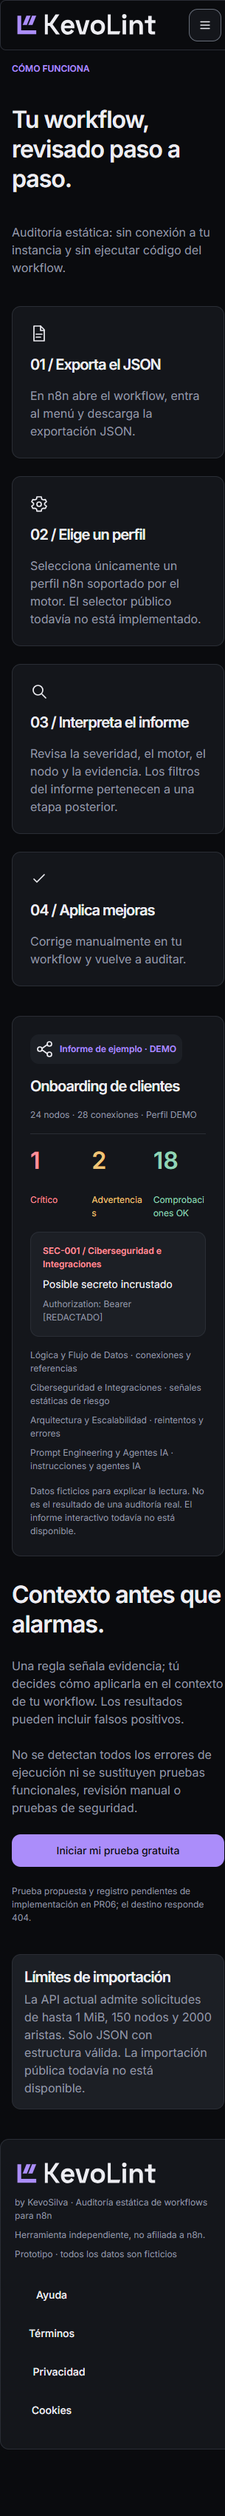
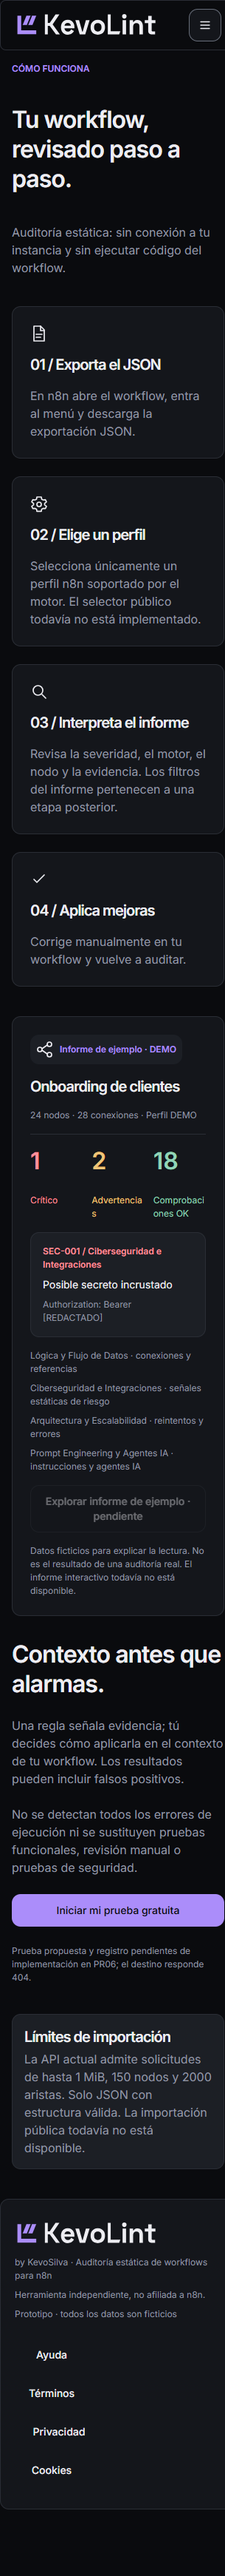
fix(web): preserve pending CTAs and synchronize PR04 browser hover checks

Changed region(s): [[0.0295, 0.0, 1.0, 0.9656], [0.8852, 0.0, 0.9443, 0.0311], [0.8262, 0.0934, 0.8852, 0.1246]]

diff --git a/apps/web/src/app/(public)/ayuda/page.tsx b/apps/web/src/app/(public)/ayuda/page.tsx
@@ -1,4 +1,5 @@
 import type { Metadata } from "next";
+import { Button } from "@/components/ui/Button";
 import { PublicPage, PublicPageIntro } from "@/components/public/content/PublicPage";
 import { HelpSearch } from "@/components/public/content/HelpSearch";
 import { helpEntries, readHelpQuery } from "@/lib/content/public/content";
@@ -8,6 +9,6 @@ export default async function HelpPage({ searchParams }: { searchParams: Promise
  const query = readHelpQuery((await searchParams).q);
  return <PublicPage><PublicPageIntro eyebrow="CENTRO DE AYUDA" title="Resuelve tu siguiente paso." description="Guías breves para entender la importación, el análisis y sus límites."/>
    <HelpSearch key={query} entries={helpEntries} initialQuery={query}/>
-   <section className={styles.card}><h2 className={styles.cardTitle}>¿Necesitas una revisión adicional?</h2><p className={styles.muted}>Correo de soporte pendiente de definir antes de la beta. La recuperación de cuenta todavía no está disponible; se implementará con la autenticación de PR06.</p></section>
+   <section className={styles.card}><h2 className={styles.cardTitle}>¿Necesitas una revisión adicional?</h2><p id="help-account-pending" className={styles.muted}>Correo de soporte pendiente de definir antes de la beta. La recuperación de cuenta todavía no está disponible; se implementará con la autenticación de PR06.</p><Button disabled variant="secondary" aria-describedby="help-account-pending">Recuperar acceso · pendiente</Button></section>
  </PublicPage>;
 }

diff --git a/apps/web/src/components/public/content/DemoReportPreview.tsx b/apps/web/src/components/public/content/DemoReportPreview.tsx
@@ -1,4 +1,5 @@
 import { PublicIcon } from "./PublicIcon";
+import { Button } from "@/components/ui/Button";
 import styles from "./public-content.module.css";
 export function DemoReportPreview() {
   return <section className={[styles.card, styles.report].join(" ")} aria-label="Informe de ejemplo DEMO">
@@ -12,6 +13,7 @@ export function DemoReportPreview() {
     </dl>
     <div className={styles.finding}><p className={styles.critical}>SEC-001 / Ciberseguridad e Integraciones</p><p>Posible secreto incrustado</p><p className={styles.small}>Authorization: Bearer [REDACTADO]</p></div>
     <ul className={styles.reportEngines}><li>Lógica y Flujo de Datos · conexiones y referencias</li><li>Ciberseguridad e Integraciones · señales estáticas de riesgo</li><li>Arquitectura y Escalabilidad · reintentos y errores</li><li>Prompt Engineering y Agentes IA · instrucciones y agentes IA</li></ul>
+    <Button disabled variant="secondary" className={styles.reportAction}>Explorar informe de ejemplo · pendiente</Button>
     <p className={styles.small}>Datos ficticios para explicar la lectura. No es el resultado de una auditoría real. El informe interactivo todavía no está disponible.</p>
   </section>;
 }

diff --git a/apps/web/src/components/public/content/public-content.module.css b/apps/web/src/components/public/content/public-content.module.css
@@ -31,6 +31,7 @@
 .planAction > button { width: 100%; }
 .proposal { padding: var(--kl-spacing-16); border: 1px solid var(--kl-color-border); border-radius: var(--kl-radius-12); background: var(--kl-color-raised); color: var(--kl-color-warning); font-size: 14px; line-height: 20px; }
 .report { gap: var(--kl-spacing-16); }
+.reportAction { width: 100%; }
 .trial { background: var(--kl-color-raised); }
 .trial h2 { font-size: 24px; line-height: 32px; letter-spacing: 0; }
 .trial .actions { width: 100%; }

diff --git a/apps/web/tests/public-content.test.ts b/apps/web/tests/public-content.test.ts
@@ -43,6 +43,8 @@ describe("PR04 truthful public content", () => {
     expect(result).toContain("[REDACTADO]");
     expect(result).not.toContain("href=");
     expect(result).not.toContain("/app/");
+    expect(result).toContain('disabled=""');
+    expect(result).toContain("Explorar informe de ejemplo · pendiente");
   });
   it("renders a usable native FAQ in SSR with no JavaScript dependency", () => {
     const result = html(createElement(PublicFaq,{entries:landingFaq}));

diff --git a/apps/web/docs/verification-pr04.md b/apps/web/docs/verification-pr04.md
@@ -33,14 +33,14 @@ No se alteran los 61 tokens originales, su generador, los 24 SVG de marca, Inter
 
 ## Comparación visual y adaptaciones autorizadas
 
-Se mantiene la composición por frame: hero 552/600 con gap48 en el contenedor desktop de 1200; pasos en tres/cuatro columnas desktop y apilados compactos; motores en cuatro/dos/una columnas; planes en tres/dos/una; lectura legal con máximo900. Se conservan los gutters PR02/PR03 y los límites767/768 y1023/1024. El hero usa48/56 desktop y36/44 compacto; títulos interiores40/48 y32/40. El salto explícito del título de precios se conserva. Las dimensiones que no son tokens originales son valores trazados a esos frames.
+Se mantiene la composición por frame: hero 552/600 con gap48 en el contenedor desktop de 1200; pasos en tres/cuatro columnas desktop y apilados compactos; motores en cuatro/dos/una columnas; planes en tres/dos/una; lectura legal con máximo 900. Se conservan los gutters PR02/PR03 y los límites767/768 y1023/1024. El hero usa48/56 desktop y36/44 compacto; títulos interiores40/48 y 32/40. El salto explícito del título de precios se conserva. Las dimensiones que no son tokens originales son valores trazados a esos frames.
 
 Las capturas mantienen barras de desplazamiento nativas. Los informes distinguen ancho emulado y ancho de layout disponible; no se ocultan barras para forzar coincidencia con el lienzo.
 
 Adaptaciones aprobadas y visibles:
 - Todos los importes siguen como “Precio por definir”. Cuotas10/100/500, historial7/90/180 y concurrencia se identifican como propuestas no aprobadas ni operativas. No hay compra, selección persistente, checkout o suscripción.
 - Los CTAs sin servicio tienen estado deshabilitado y explicación, o enlace real al destino pendiente con aviso expreso de404. No se crean informes privados ni recuperaciones de cuenta ficticias.
-- La muestra mantiene los datos ficticios24/28 y1/2/18, con DEMO y evidencia redactada. Se sustituye la acción de informe interactivo no implementada por una explicación estática.
+- La muestra mantiene los datos ficticios24/28 y1/2/18, con DEMO y evidencia redactada. Los CTAs del informe interactivo y recuperación de acceso conservan su lugar visual como botones nativos deshabilitados, con explicación de su estado pendiente.
 - Los textos de ayuda, seguridad y privacidad distinguen capacidades estáticas inspeccionadas de identidad, historial, cuotas, proveedores, conservación y controles futuros.
 - Los tres documentos legales muestran “Pendiente de revisión legal”, desarrollo exclusivamente y D08 pendiente. Se adaptan las afirmaciones futuras para no presentarlas como políticas vigentes.
 - Cookies no incorpora analítica, banner, consentimiento o guardado ficticio. El control de preferencias está deshabilitado y explicado.
@@ -56,7 +56,7 @@ Los avisos y textos honestos aumentan alturas y cambian algunos saltos de línea
 | M02 | IntersectionObserver una vez + CSS opacity/transform480ms. SSR visible; sin JS permanece visible. Foco dentro de la sección elimina inmediatamente cualquier ocultación visual. |
 | M03 | Borde de motor QA en hover; focus-within preparado sin añadir tab stops artificiales a tarjetas informativas. Superficie original conservada. |
 | M09 | PlanCard hover180ms, recomendación Pro persistente; sin selección comercial ni persistencia. |
-| M17 | Disclosure nativo y fade150ms del contenido abierto. |
+| M17 | Disclosure nativo y fade 150ms del contenido abierto. |
 | M04 / M14 | M04 excluido; M14 conserva los SVG estáticos originales. |
 
 Movimiento reducido elimina entradas/transiciones. No se instalan React Bits, GSAP ni otras dependencias.
@@ -68,21 +68,21 @@ Instalación limpia: `npm ci --no-audit --no-fund`, con las versiones ya fijadas
 | Comprobación | Resultado local |
 | --- | --- |
 | Lint / TypeScript | Aprobados |
-| Vitest | 301 pruebas: cobertura previa de276 con expectativas de disponibilidad actualizadas y25 casos nuevos |
+| Vitest | 301 pruebas: cobertura previa de 276 con expectativas de disponibilidad actualizadas y 25 casos nuevos |
 | Tokens y recursos | 61 tokens, generación determinista,24 SVG de marca, doce iconos y fuente/licencia conservados |
-| PR02 navegador | 14 muestras y32 estados; contraste efectivo, teclado, movimiento reducido, geometría y reflow existentes |
+| PR02 navegador | 14 muestras y 32 estados; contraste efectivo, teclado, movimiento reducido, geometría y reflow existentes |
 | PR03 navegador | Siete anchos; ciclo de foco, fondo inerte, Escape, scrim, scroll, viewport, rutas, modificadores y desmontaje |
-| PR04 navegador standalone | 56 muestras: ocho páginas ×320/390/767/768/1023/1024/1440;32 capturas de frames, FAQ/AX y búsqueda |
+| PR04 navegador standalone | 56 muestras: ocho páginas × 320/390/767/768/1023/1024/1440; 32 capturas de frames, FAQ/AX y búsqueda |
 | Sin JavaScript | Ocho páginas legibles; FAQ nativo y búsqueda GET en Ayuda comprobados |
 | Movimiento / CTA / consola | Reducción, observer, hover, historial del hero, destinos honestos y ausencia de errores runtime/consola |
-| Contraste y estabilidad | Textos efectivos con mínimo5,64:1 en56 muestras; CLS0 en el entorno headless controlado; no son métricas de campo |
+| Contraste y estabilidad | Textos efectivos con mínimo 5,64:1 en 56 muestras; CLS 0 en el entorno headless controlado; no son métricas de campo |
 | Frontera / build / smoke | Rechazo de importación server-only desde cliente y entorno público no aprobado; build sin proveedores; standalone correcto |
 | Python / Streamlit | 15 regresiones, compileall y smoke inicial aprobados sin cambios de backend |
 | Audit local | Ejecutado completo: cuatro nodos high del único GHSA conocido; aceptación local correctamente denegada |
 
-Se conservaron los checks de PR01–PR03. La única adición al workflow es el navegador PR04 contra el standalone preparado, después del smoke y antes de la inspección física de seguridad. No se elimina ningún step/job, permiso, límite de15 minutos o condición de seguridad.
+Se conservaron los checks de PR01–PR03. La única adición al workflow es el navegador PR04 contra el standalone preparado, después del smoke y antes de la inspección física de seguridad. No se elimina ningún step/job, permiso, límite de 15 minutos o condición de seguridad.
 
-Los logs locales completos son salidas ignoradas bajo `.tools/pr04`. La evidencia seleccionada se conserva en `pr04-evidence/`, con hashes y procedencia. Sus capturas Windows corresponden al árbol de trabajo PR04 anterior al primer commit; no se presentan como capturas Linux ni como imágenes producidas por el SHA final. GitHub Actions repite los checks contra su revisión concreta. Los enlaces y resultados del último commit se registran en la descripción del Draft PR para evitar una autorreferencia de commits en este archivo.
+Los logs locales completos son salidas ignoradas bajo `.tools/pr04`. La evidencia seleccionada se conserva en `pr04-evidence/`, con hashes y procedencia. Sus capturas Windows corresponden al árbol de trabajo PR04 anterior al commit final, con su referencia registrada; no se presentan como capturas Linux ni como imágenes producidas por el SHA final. GitHub Actions repite los checks contra su revisión concreta. Los enlaces y resultados del último commit se registran en la descripción del Draft PR para evitar una autorreferencia de commits en este archivo.
 
 ### Incidencias durante la verificación
 
@@ -91,10 +91,11 @@ Los logs locales completos son salidas ignoradas bajo `.tools/pr04`. La evidenci
 - Un arranque de desarrollo quedó esperando tras cambios de caché/instalación; se terminó solo su árbol de procesos y se eliminó únicamente su fixture verificada y caché ignorada. La repetición completa pasó.
 - Una ejecución elevada no se inició por el límite temporal del revisor automático de aprobaciones. Se reintentó después del restablecimiento; no se eludió el control.
 - El escaneo previo clasificó el identificador público del archivo Figma bajo la propiedad fileKey como posible clave genérica. Se registró mediante su URL completa de procedencia, sin cambiar el recurso. No era una credencial; no se añadió ninguna exclusión ni se modificó el escáner.
+- El primer CI Linux falló en la comprobación de hover QA. El audit se ejecutó y denegó correctamente la aceptación al fallar foundation, sin hallazgos adicionales. El verificador ahora espera que termine la entrada, mide de nuevo la tarjeta, comprueba el hit-test :hover y espera el color final, conservando las mismas aserciones de pintura; el resultado definitivo se registra en el Draft PR.
 
 ## Seguridad y bloqueos conservados
 
-SEC-PR01-01 permanece abierta, temporalmente aceptada y **no corregida**, responsable `KevinhosUTP`. Vencimiento original: **31/10/2026,23:59 America/Lima**, `2026-11-01T04:59:00Z`; sin renovación. Revisiones del24 y31 de octubre conservadas.
+SEC-PR01-01 permanece abierta, temporalmente aceptada y **no corregida**, responsable `KevinhosUTP`. Vencimiento original: **31/10/2026,23:59 America/Lima**, `2026-11-01T04:59:00Z`; sin renovación. Revisiones del 24 y 31 de octubre conservadas.
 
[1 lines of base64/hex data omitted]
 
@@ -104,7 +105,7 @@ La aceptación técnica depende del CI final del PR interno hacia develop: found
 
 - D05 sigue abierto: precios, cuotas finales, conservación y condiciones comerciales requieren aprobación.
 - D08 sigue abierto: responsable, jurisdicción, contacto, proveedores, conservación, eliminación, respaldos e inventario de cookies necesitan revisión.
-- /sign-in y /sign-up siguen siendo404 de PR06. No hay autenticación, backend integrado, pagos o dashboard.
+- /sign-in y /sign-up siguen siendo 404 de PR06. No hay autenticación, backend integrado, pagos o dashboard.
 - Sin verificación con lectores de pantalla, dispositivos físicos, Safari/Firefox, zoom nativo manual o cobertura exhaustiva. No se declara certificación WCAG integral. Los tiempos headless no son métricas de campo ni de dispositivos móviles físicos.
 - Light y High Contrast completos permanecen deshabilitados; ISSUE-HC-01 conserva su corrección aislada.
 - No se autoriza despliegue comercial, merge, PR05, infraestructura ni proveedores. No se modifican main ni el PR #3 histórico.

diff --git a/apps/web/docs/pr04-evidence/README.md b/apps/web/docs/pr04-evidence/README.md
@@ -1,6 +1,6 @@
 # PR04 · Capturas reales
 
-Real standalone captures from the authorized working tree before the first PR04 commit. No image editing; only browser capture/clipping. Native scrollbars preserved. Final Linux CI verifies its own checked-out commit separately.
+Real standalone captures from the working PR04 tree before the final follow-up commit, based on sourceRevisionAtCapture. No image editing; only browser capture/clipping. Native scrollbars preserved. Final Linux CI verifies its own checked-out commit separately.
 
 Capturas de página completa por ruta. Las variantes y enlaces Figma originales están en [public-pages.json](../../design-system/public-pages.json).
 
